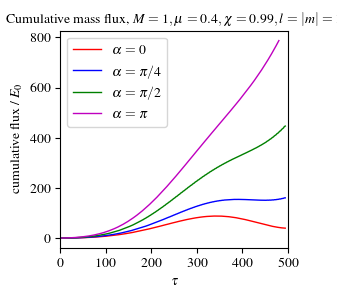
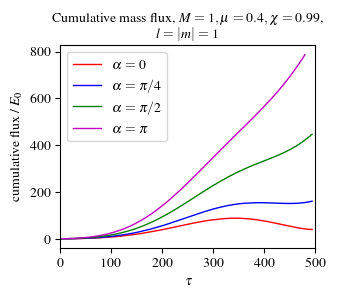
edited plots

diff --git a/Analysis/scripts/scripts_for_first_paper/Fig_15_plot_mass_flux_compare_Al.py b/Analysis/scripts/scripts_for_first_paper/Fig_15_plot_mass_flux_compare_Al.py
@@ -311,7 +311,7 @@ def plot_graph():
 			ax1.set_title("Cumulative mass flux, $M=1,\\mu=0.4,\\chi=0.99$ \n $l=|m|=1$; diff from $\\alpha=0$", wrap=True, fontsize=title_font_size)
 		else:
 			ax1.set_ylabel("cumulative flux / $E_0$", fontsize=label_size)
-			ax1.set_title("Cumulative mass flux, $M=1,\\mu=0.4,\\chi=0.99,l=|m|=1$", wrap=True, fontsize=title_font_size)			
+			ax1.set_title("Cumulative mass flux, $M=1,\\mu=0.4$,\n$\\chi=0.99,l=|m|=1$", wrap=True, fontsize=title_font_size)			
 			save_path = home_path + "plots/plots_for_first_paper/Fig_15_mass_flux_in_R{:.0f}_IsoKerr_compare_Al_cumulative.png".format(R_max)
 	else:
 		if diff_from_alpha0:

diff --git a/Analysis/scripts/scripts_for_first_paper/Fig_16_plot_mass_flux_compare_Al.py b/Analysis/scripts/scripts_for_first_paper/Fig_16_plot_mass_flux_compare_Al.py
@@ -311,7 +311,7 @@ def plot_graph():
 			ax1.set_title("Cumulative mass flux, $M=1,\\mu=0.4,\\chi=0.99$ \n $l=|m|=1$; diff from $\\alpha=0$", wrap=True, fontsize=title_font_size)
 		else:
 			ax1.set_ylabel("cumulative flux / $E_0$", fontsize=label_size)
-			ax1.set_title("Cumulative mass flux, $M=1,\\mu=0.4,\\chi=0.99,l=|m|=1$", wrap=True, fontsize=title_font_size)			
+			ax1.set_title("Cumulative mass flux, $M=1,\\mu=0.4,\\chi=0.99$,\n$l=|m|=1$", wrap=True, fontsize=title_font_size)			
 			save_path = home_path + "plots/plots_for_first_paper/Fig_16_mass_flux_in_R{:.0f}_IsoKerr_compare_Al_cumulative.png".format(R_max)
 	else:
 		if diff_from_alpha0:

diff --git a/Analysis/scripts/scripts_for_first_paper/Fig_18_plot_radial_profile_rho_compare_Al.py b/Analysis/scripts/scripts_for_first_paper/Fig_18_plot_radial_profile_rho_compare_Al.py
@@ -194,7 +194,7 @@ def plot_graph():
 	plt.xticks(fontsize=font_size)
 	plt.yticks(fontsize=font_size)
 	dd0 = data_dirs[0]
-	title = "$\\rho$" + " profile $M=1,\\mu=0.4,l=|m|=1,\\chi=0.99,\\tau=" + str(dd0.time*dd0.mu) + "$" 
+	title = "$\\rho$" + " profile $M=1,\\mu=0.4,l=|m|=1$,\n$\\chi=0.99,\\tau=" + str(dd0.time*dd0.mu) + "$" 
 	ax1.set_title(title, fontsize=title_font_size)
 	plt.tight_layout()
 	if log_y:
